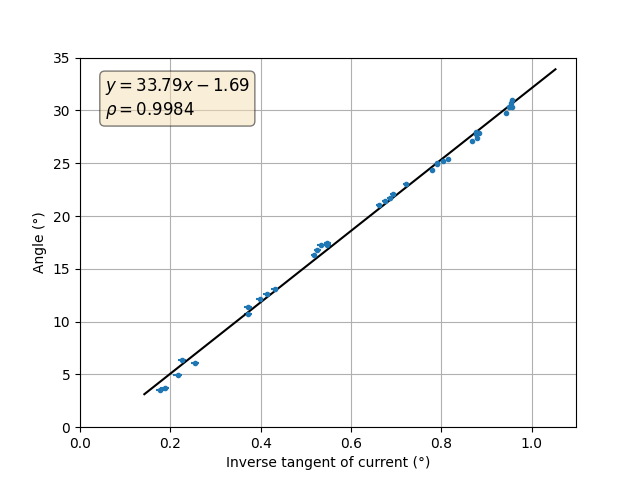
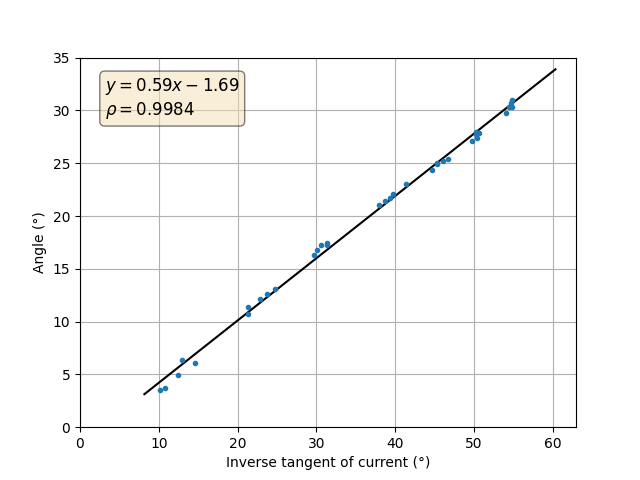
data processing error to be corrected

diff --git a/python/plots.py b/python/plots.py
@@ -4,7 +4,7 @@ from scipy.stats import linregress
 import numpy as np
 import csv
 
-#plt.rcParams['text.usetex'] = True
+plt.rcParams['text.usetex'] = True
 #plt.rcParams.update({'font.size': 12})
 
 path = Path(__file__).parent.parent.resolve() / 'data' / 'image-data2.csv'
@@ -36,7 +36,7 @@ DY = data[3]
 f1 = plt.figure()
 ax1 = f1.add_subplot(111)
 ax1.errorbar(X, Y, DY, DX, '.')
-ax1.set_xlabel('Current (A)')
+ax1.set_xlabel(r'Current (\textit{A})')
 ax1.set_ylabel(u'Angle (\u00b0)')
 ax1.set_xlim(left=0, right=1.6)
 ax1.set_ylim(bottom=0)
@@ -44,9 +44,9 @@ ax1.grid()
 
 get_dx = lambda x, dx : (np.arctan(x + dx) - np.arctan(x - dx)) / 2
 
-X2 = np.arctan(X)
-DX2 = [get_dx(x, dx) for x, dx in zip(X, DX)]
-Y2 = Y
+X2 = X#np.degrees(np.arctan(X))
+DX2 = DX#[get_dx(x, dx) for x, dx in zip(X, DX)]
+Y2 = mass*9.81*np.tan(np.radians(Y))
 DY2 = DY
 
 f2 = plt.figure()
@@ -58,14 +58,17 @@ x = np.linspace(np.min(X2)*(0.8), np.max(X2)*1.1, 100)
 
 ax2.plot(x, (res2.slope * x + res2.intercept), 'k')
 
-ax2.set_xlabel(u'Inverse tangent of current (\u00b0)')
+ax2.set_xlabel(r'Current (\textit{A})')
 ax2.set_ylabel(u'Angle (\u00b0)')
 ax2.set_xlim(left=0)
-ax2.set_ylim(bottom=0, top=35)
+ax2.set_ylim(bottom=0)
 ax2.grid()
 
+eqstr1 = r'$y=%.2fx + %.2f$' % (res2.slope, res2.intercept)
+eqstr2 = r'$y=%.2fx %.2f$' % (res2.slope, res2.intercept)
+
 textstr = '\n'.join((
-    r'$y=%.2fx %.2f$' % (res2.slope, res2.intercept),
+    eqstr1 if res2.intercept > 0 else eqstr2,
     r'$\rho=%.4f$' % (res2.rvalue, )))
 
 props = dict(boxstyle='round', facecolor='wheat', alpha=0.5)

diff --git a/latex/sections/intro.tex b/latex/sections/intro.tex
@@ -1,7 +1,6 @@
 \section{Introduction}
 
 As the world transitions from internal combustion engines to electric motors, I have begun to wonder how exactly electricity is used in vehicles.
-More specifically, how electrical energy is transformed into kinetic energy.
-Having worked with DC motors for small projects when I was younger, the most I understood was that, when electricity flowed through the DC motor, it would spin.
-Now, with a more comprehensive understanding of magnetism, I'm curious to know just how electricity is used to create force.
-
+More specifically, how electrical force is transformed into physical force.
+Having worked with DC motors for small projects when I was younger, all I understood was that electricity made these motors spin.
+Now, with a basic understanding of Lorentz force, I want to explore this concept again and investigate how current relates to physical force.

diff --git a/latex/main.tex b/latex/main.tex
@@ -15,8 +15,6 @@
 \usepackage[english]{babel}
 \usepackage{csquotes}
 
-\usepackage[version=4]{mhchem}
-
 \usepackage[margin=1in]{geometry}
 \usepackage{setspace}
 %\usepackage{newtxtext,newtxmath}
@@ -40,7 +38,7 @@
 \begin{document}
 
 	\begin{center}
-		\textbf{\large Investigating the relationship between the electric current and magnetic force of a wire}
+		\textbf{\large Investigating the relationship between the electric current and force exerted on a wire}
 
 		\vspace*{12pt}
 
